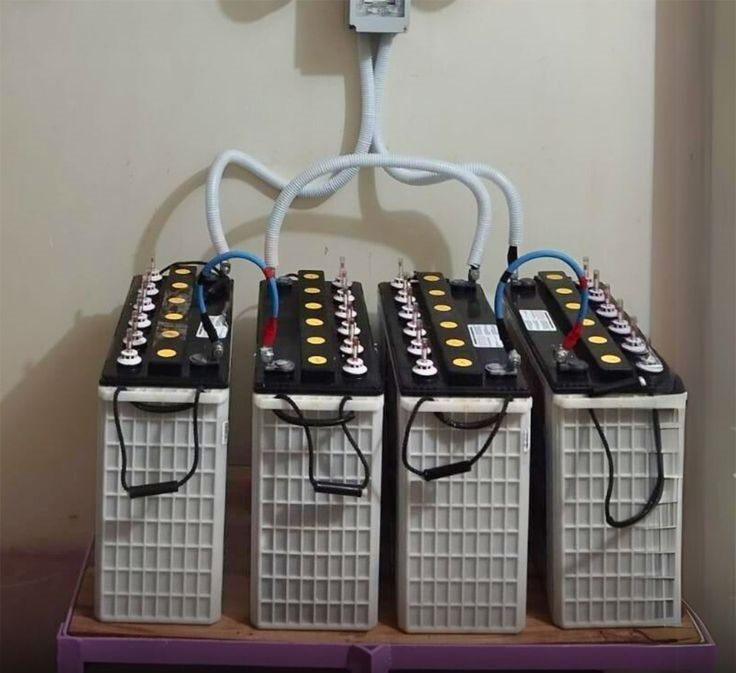
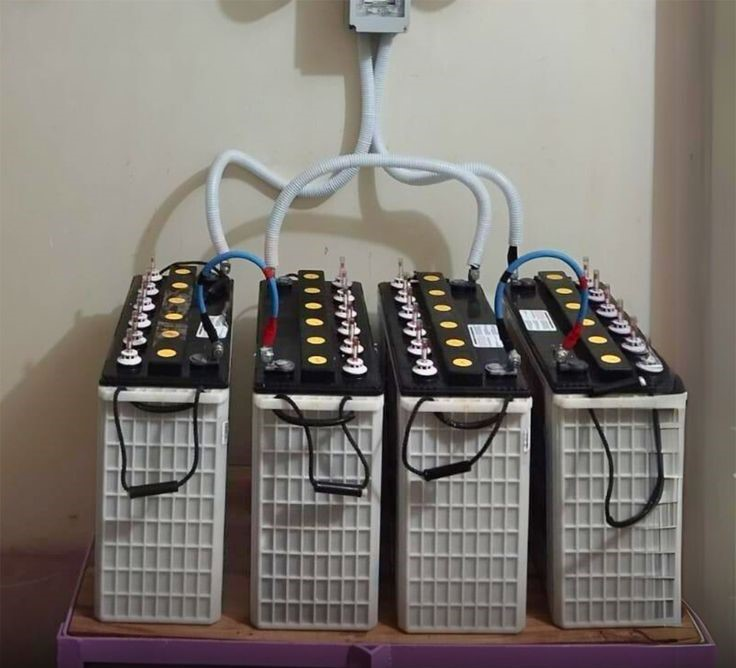
good

diff --git a/src/Components/Carousel/Carousel.js b/src/Components/Carousel/Carousel.js
@@ -5,7 +5,7 @@ import Slider from "react-slick";
 import "./Carousel.css";
 import pic1 from "../Assets/Fabric/gee10.jpg"
 import pic2 from "../Assets/Fabric/gee23.jpg"
-import pic3 from "../Assets/Fabric/gee4.jpg"
+import pic3 from "../Assets/Fabric/gee8.jpg"
 import pic4 from "../Assets/Fabric/gee6.jpg"
 import pic5 from "../Assets/Fabric/gee12.jpg"
 import pic6 from "../Assets/Fabric/gee22.jpg"
@@ -61,32 +61,32 @@ function Carousel() {
         <Slider {...settings}>
 
 <div className='slider-div'>
-  <h3 > Fabric</h3>
+  <h3 > Solar Panels</h3>
   <img src={pic1} alt="Chicks" className='cont' />
 </div>
 
  <div className='slider-div'>
-<h3> Coloured</h3>
+<h3> Battery</h3>
 <img src={pic2} alt="" className='cont' />
 </div> 
 
 <div className='slider-div'>
-<h3>Smooth Fabric</h3>
+<h3>Panels</h3>
 <img src={pic3} alt="" className='cont' />
 </div>
 
 <div className='slider-div'>
-<h3> Soft</h3>
+<h3> Quality</h3>
 <img src={pic4} alt="" className='cont'  />
 </div>
 
 <div className='slider-div'>
-<h3> Plain</h3>
+<h3> Premium</h3>
 <img src={pic5} alt="" className='cont'  />
 </div>
 
 <div className='slider-div'>
-<h3> Clean</h3>
+<h3> Modern</h3>
 <img src={pic6} alt="" className='cont'  />
 </div>
 

diff --git a/src/Components/Assets/all_product.js b/src/Components/Assets/all_product.js
@@ -240,7 +240,7 @@ let all_product = [
   },
   {
     id: 26,
-    name: "Curtain Fabric Collection",
+    // name: "Curtain Fabric Collection",
     category: "kid",
     image: p26_img,
     new_price: "Buy Now",